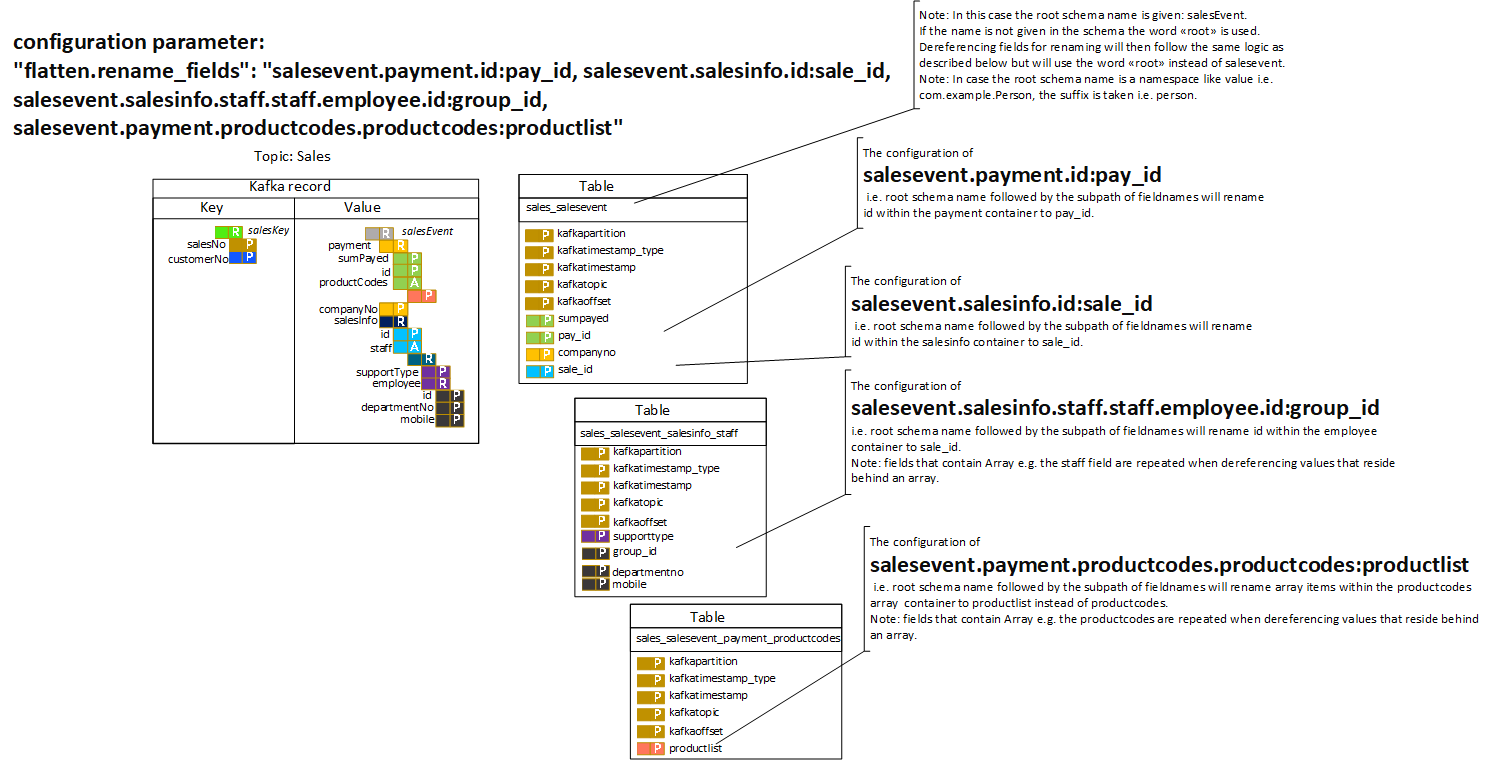
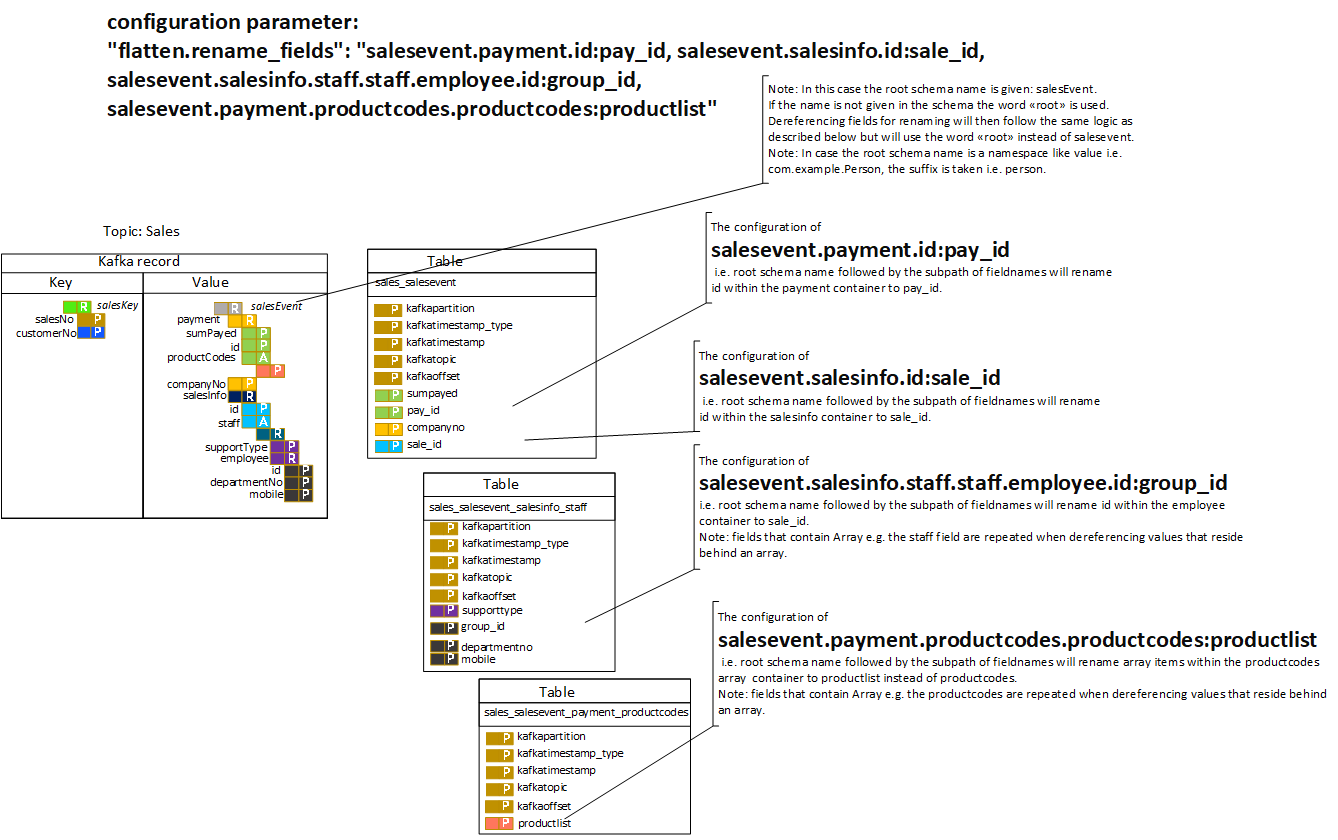
Added explanatory image to configuration parameter: - flatten.rename_tables

diff --git a/src/test/java/io/confluent/connect/jdbc/sink/JdbcSinkTaskTestPostgresArray.java b/src/test/java/io/confluent/connect/jdbc/sink/JdbcSinkTaskTestPostgresArray.java
@@ -1710,8 +1710,7 @@ public class JdbcSinkTaskTestPostgresArray extends EasyMockSupport {
     String timeZoneID = "Europe/Oslo";
     props.put("db.timezone", timeZoneID);
     props.put("flatten", "true");
-    props.put("flatten.rename_fields", "salesevent.payment.id:pay_id, salesevent.salesinfo.id:sale_id, salesevent.salesinfo.staff.staff.employee.id:group_id, salesevent.payment.productcodes.productcodes:productlist");
-
+    props.put("flatten.rename_tables", "sales_salesevent:a, sales_salesevent_salesinfo_staff:b, sales_salesevent_payment_productcodes:c");
     JdbcSinkTask task = new JdbcSinkTask();
     task.initialize(mock(SinkTaskContext.class));
 

diff --git a/README.md b/README.md
@@ -61,25 +61,24 @@ default ` `
     	title="flatten rename fields config parameter" width="150" height="100" />
 </p>
 
-     Whether to rename fields when flattening is enabled with enlisted mapping pairs <old name>:<new name>.
-     The old name of the fields are to be referenced by: suffix of root schema name (if absent the word root is used),
+     Whether to rename fields when flattening is enabled with enlisted mapping pairs <original name>:<new name>.
+     The original name of the fields are to be referenced by: suffix of root schema name (if absent the word root is used),
      followed by the subpath of fieldnames.
      All of these are to be seperated by dot ('.').
      
 ## flatten.rename_tables
 default ` `
+<p>
+    <img src="readme_pics/flatten_rename_tables.png" alt="flatten.rename_tables config parameter image"
+    	title="flatten rename tables config parameter" width="150" height="100" />
+</p>
 
-     Whether to rename tables with enlisted mapping pairs <old name>:<new name>.
-     Old table names are specified as topic name, followed by the 
+     Whether to rename tables with enlisted mapping pairs <original name>:<new name>.
+     Original table names are specified as topic name, followed by the 
      suffix of the root schema name (if absent the word root is used), 
-     followed by the subpath of the record container paths
+     followed by the subpath of the field paths
      within the hierarchical value structure.
-     All of these are to be seperated by the configured flatten.delimiter (default '_').
-     e.g.
-     A main struct with a name com.example.Mainrecord that has a field that contains an array and is named array1FieldName
-     would create two target tables that can be renamed as follows.
-     "topicName_mainrecord:targetTableNameX, 
-     topicName_mainrecord_array1FieldName:targetTableNameY" 
+     All of these are to be seperated by the configured flatten.delimiter (default '_'). 
      
 
 ## flatten.uppercase
